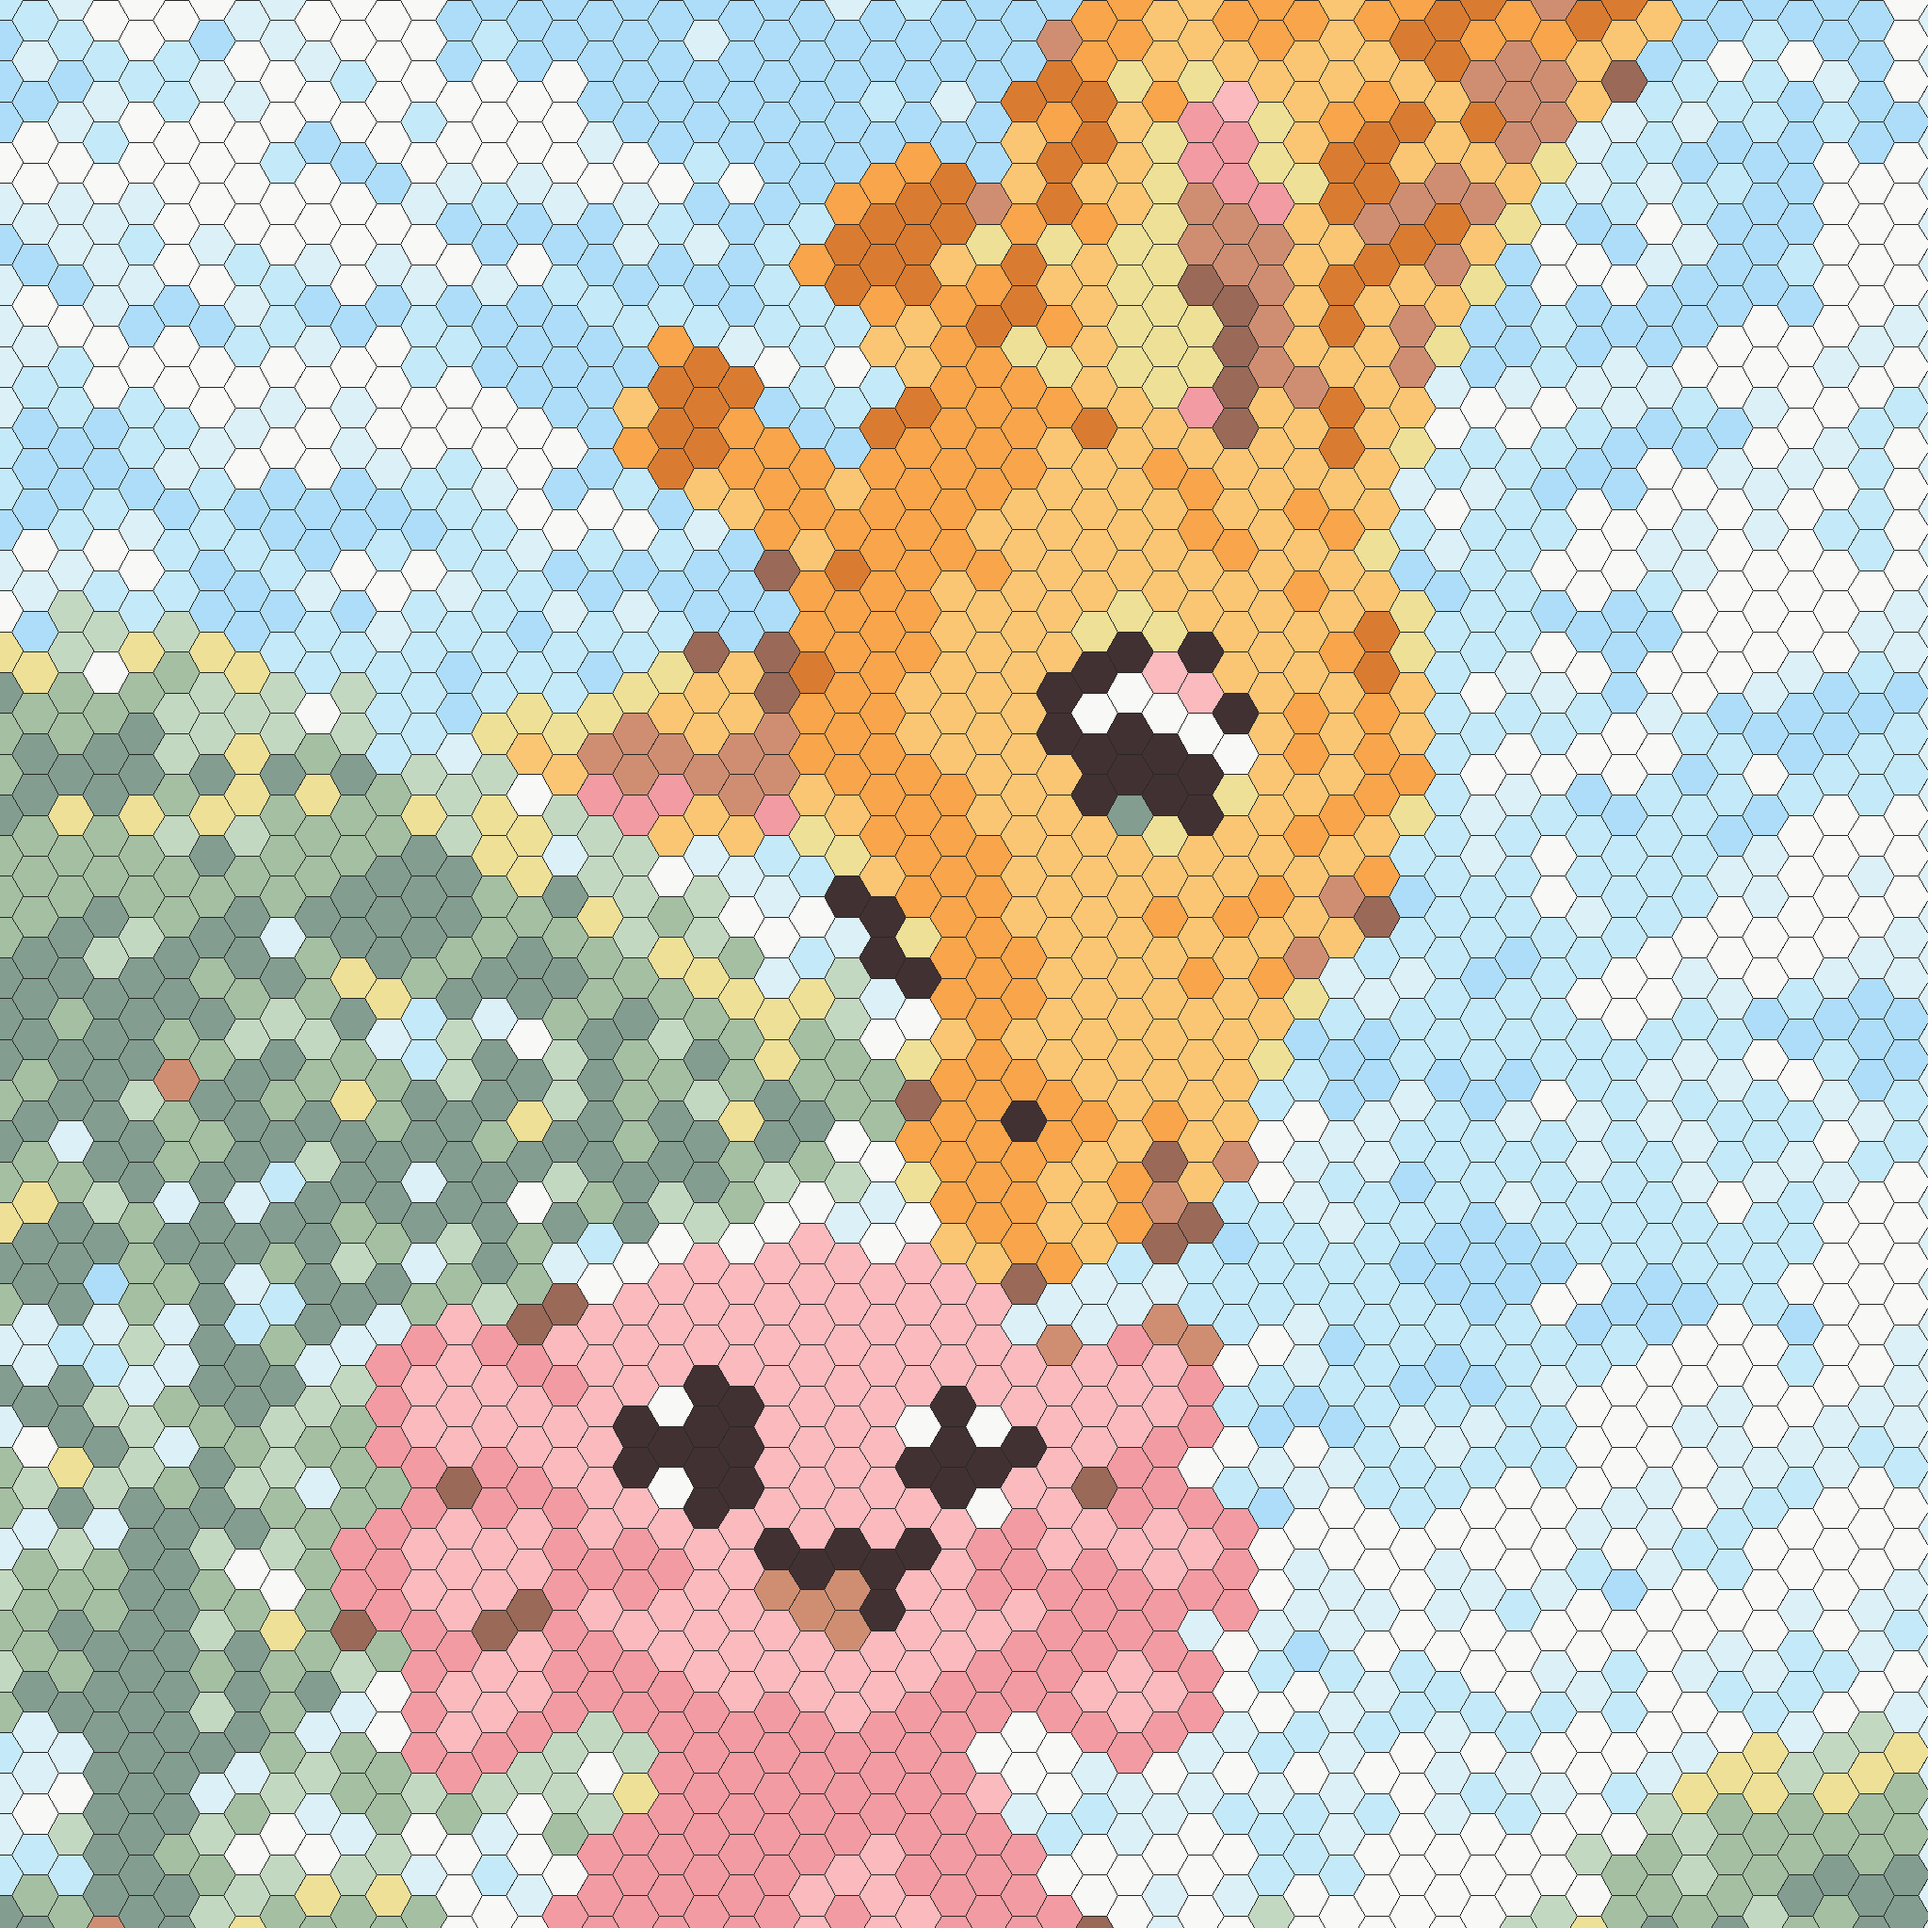
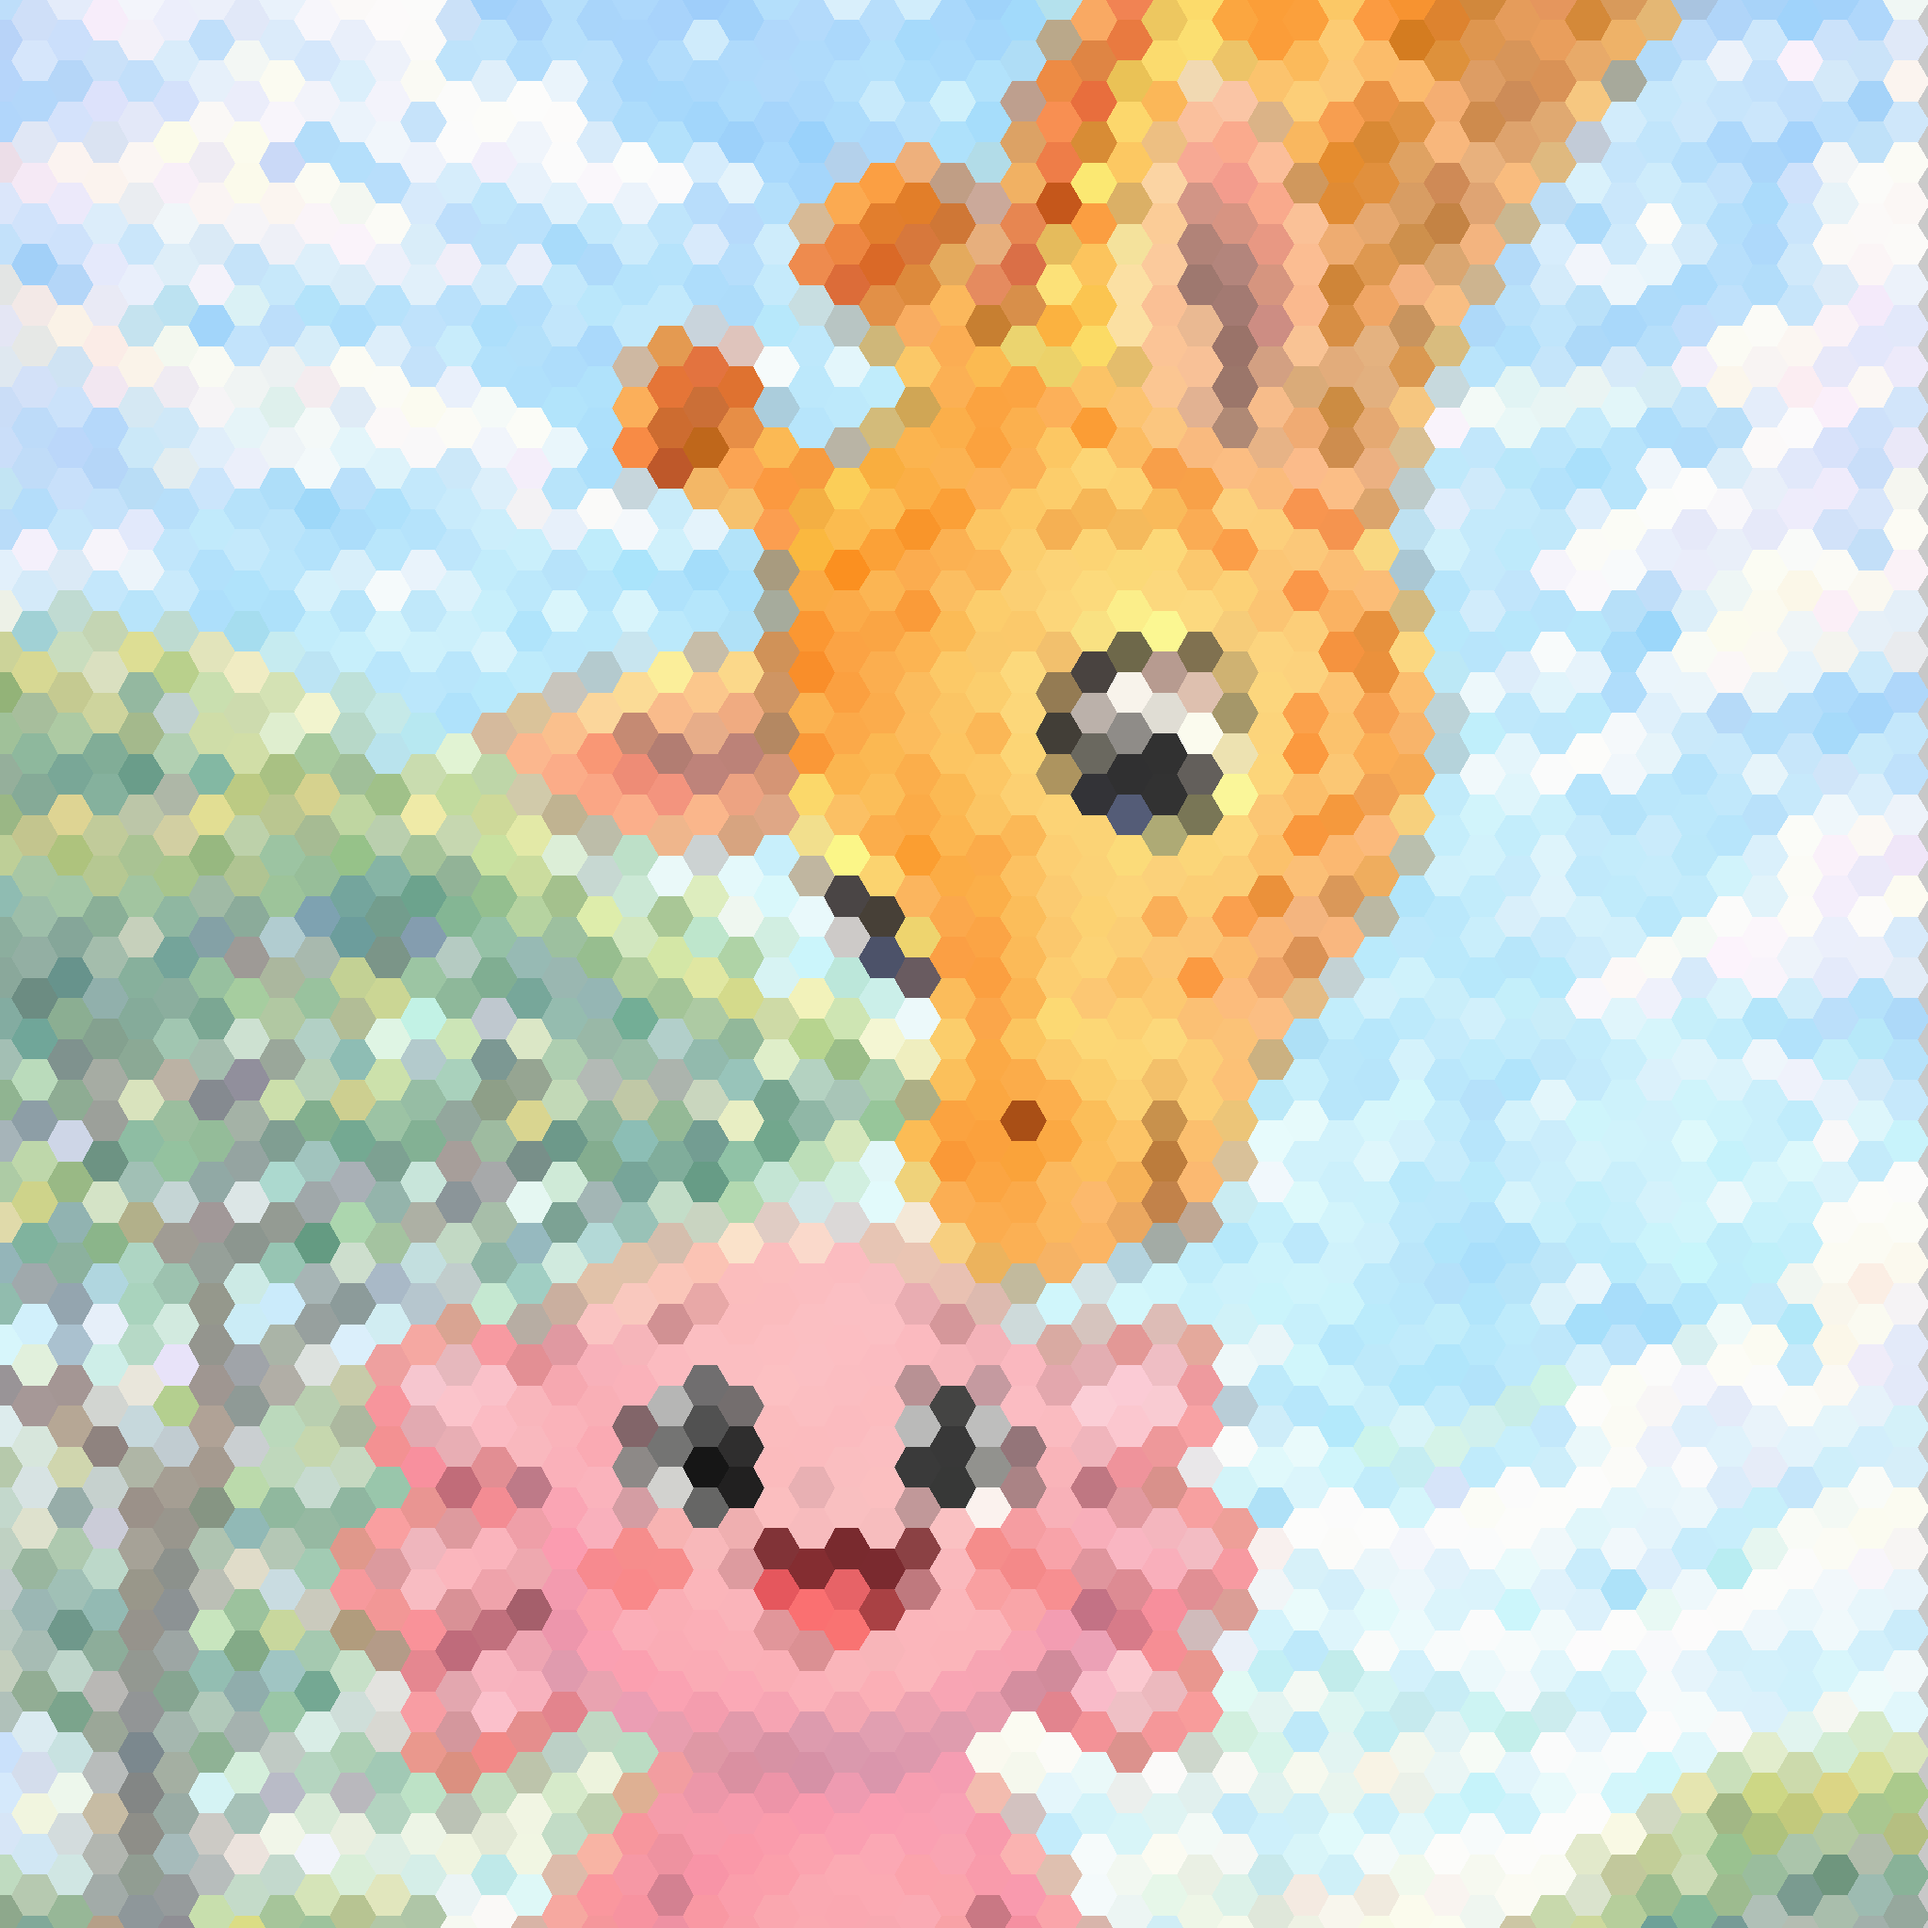
Use beauty mode for hero and result preview (real colors, no outlines)

diff --git a/tools/mosaic/index.html b/tools/mosaic/index.html
@@ -570,18 +570,18 @@ async function doGenerate() {
       var origUrl = URL.createObjectURL(selectedFiles[0]);
       document.getElementById('previewOriginal').src = origUrl;
 
-      var fdAnswer = _buildFormData('answer');
+      var fdBeauty = _buildFormData('beauty');
       var fdZip = _buildFormData('zip');
 
-      var [answerResp, zipResp] = await Promise.all([
-        fetch(API+'/api/generate', {method:'POST', body:fdAnswer.fd}),
+      var [beautyResp, zipResp] = await Promise.all([
+        fetch(API+'/api/generate', {method:'POST', body:fdBeauty.fd}),
         fetch(API+'/api/generate', {method:'POST', body:fdZip.fd})
       ]);
 
-      if (!answerResp.ok) { var err = await answerResp.json(); throw new Error(err.detail?.message || err.detail || 'Generation failed'); }
+      if (!beautyResp.ok) { var err = await beautyResp.json(); throw new Error(err.detail?.message || err.detail || 'Generation failed'); }
 
-      var answerBlob = await answerResp.blob();
-      document.getElementById('previewAnswer').src = URL.createObjectURL(answerBlob);
+      var beautyBlob = await beautyResp.blob();
+      document.getElementById('previewAnswer').src = URL.createObjectURL(beautyBlob);
       document.getElementById('resultSlider').style.display = 'block';
 
       var zipBlob = await zipResp.blob();
